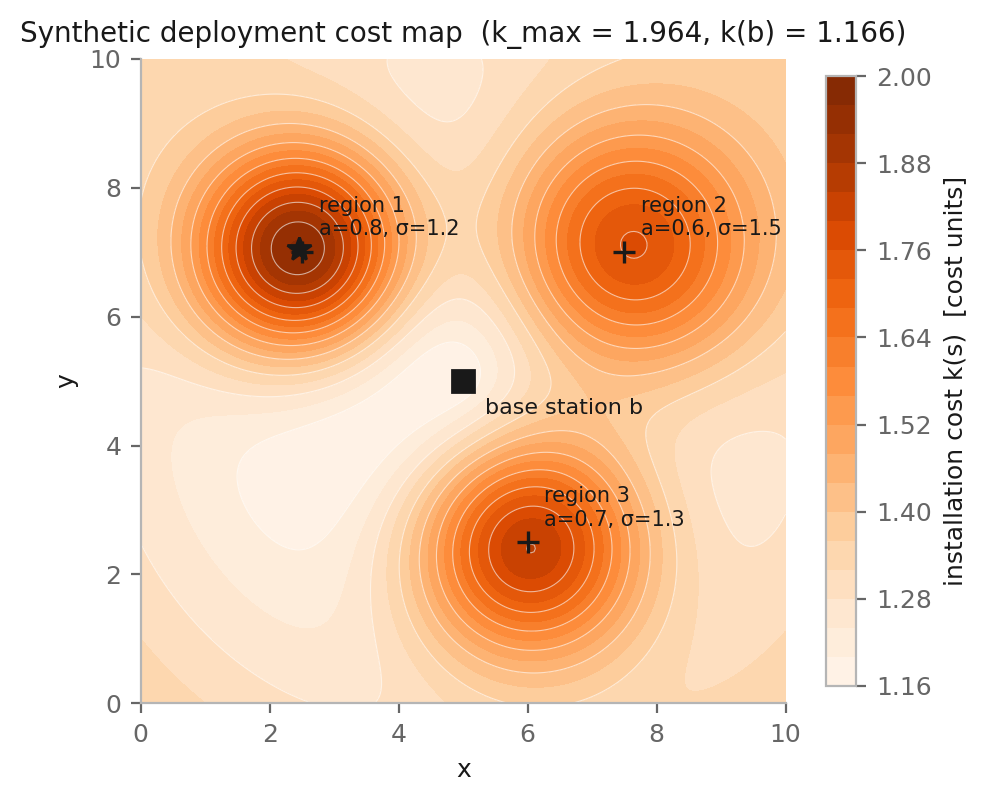
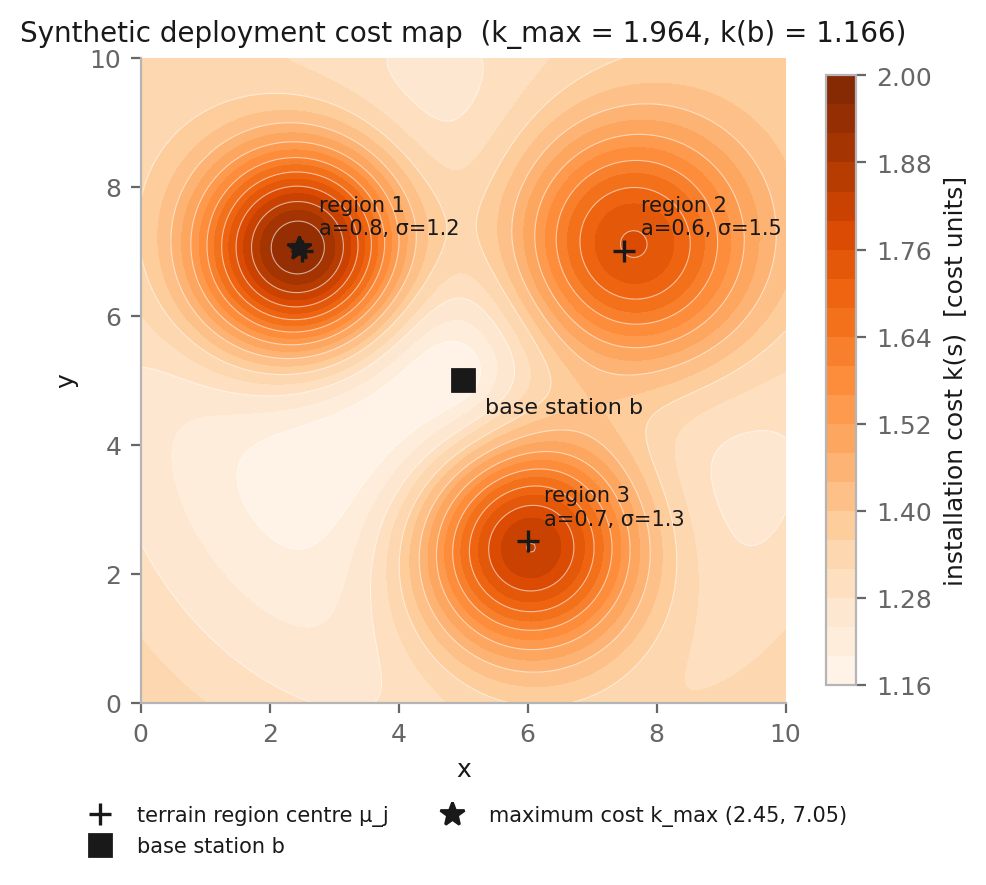
Add legend to cost map figure

diff --git a/wsn/visualize.py b/wsn/visualize.py
@@ -68,17 +68,20 @@ def plot_cost_map(cfg: Config, path: str):
     cb = fig.colorbar(im, ax=ax, shrink=0.9)
     cb.set_label("installation cost k(s)  [cost units]")
     for j, (mx, my, a, s) in enumerate(cfg.terrain_regions, 1):
-        ax.plot(mx, my, "+", color=TEXT, ms=8, mew=1.2)
+        ax.plot(mx, my, "+", color=TEXT, ms=8, mew=1.2,
+                label="terrain region centre μ_j" if j == 1 else None)
         ax.annotate(f"region {j}\na={a}, σ={s}", (mx, my), xytext=(6, 6),
                     textcoords="offset points", fontsize=7.5, color=TEXT)
-    ax.plot(*cfg.base_station, marker="s", color=TEXT, ms=8, ls="")
+    ax.plot(*cfg.base_station, marker="s", color=TEXT, ms=8, ls="", label="base station b")
     ax.annotate("base station b", cfg.base_station, xytext=(8, -12),
                 textcoords="offset points", fontsize=8)
     imax = np.unravel_index(np.argmax(k), k.shape)
     ax.set_title(f"Synthetic deployment cost map  (k_max = {problem.k_max:.3f}, "
                  f"k(b) = {sensor_costs(problem.base_station[None], cfg)[0]:.3f})")
-    ax.plot(gx[imax], gy[imax], marker="*", color=TEXT, ms=9, ls="")
+    ax.plot(gx[imax], gy[imax], marker="*", color=TEXT, ms=9, ls="",
+            label=f"maximum cost k_max ({gx[imax]:.2f}, {gy[imax]:.2f})")
     ax.set_xlabel("x"), ax.set_ylabel("y"), ax.set_aspect("equal"), ax.grid(False)
+    ax.legend(loc="upper center", bbox_to_anchor=(0.5, -0.13), ncol=2, fontsize=7.5)
     return _save(fig, path)
 
 
